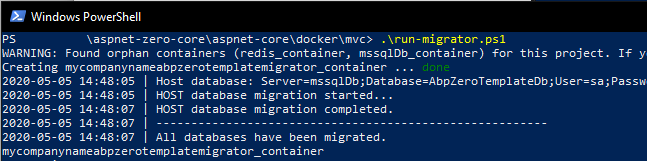
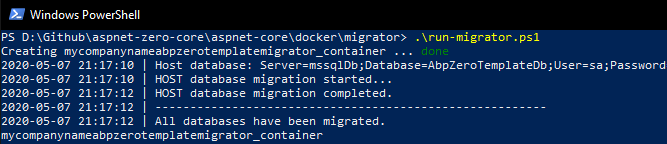
Fixed migrator outdated text and image

diff --git a/docs/en/Development-Mvc-Core-Docker.md b/docs/en/Development-Mvc-Core-Docker.md
@@ -25,7 +25,7 @@ In your `aspnet-core\docker\certificate\` folder, you will find **create-certifi
 
 ### 3. Running the migrator
 
-In your `aspnet-core\docker\mvc\` folder, you will find **run-migrator** file to apply migrations for your application. Running the shell script should have a similar output like below.
+In your `aspnet-core\docker\migrator\` folder, you will find **run-migrator** file to apply migrations for your application. Running the shell script should have a similar output like below.
 
 <img src="images/development-docker-mvc/docker-migrate.png" alt="docker-migrate"/>
 
